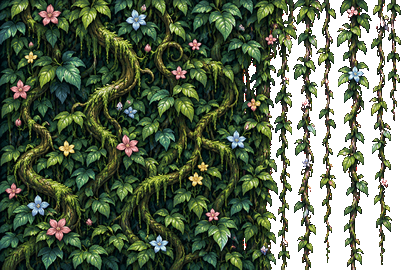
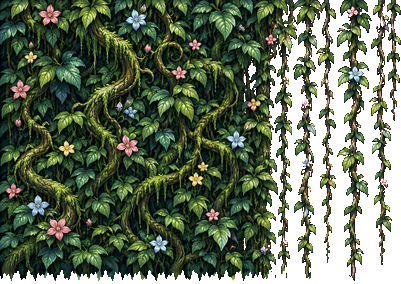
Act III vines: no more boxy edges as they come down
- The drape now slides down from above, so the vines' real ends lead; the
  curtain art gets a ragged leafy hem (14 rows below the picture, made by
  tools/vine_curtain.py) that sits off-screen once closed, so the leading
  edge is torn foliage instead of a straight cut.
- Strips are half as wide (4 art px) and their timing, swing phase and
  strength change smoothly across the curtain, so neighbours stay together
  and the hem comes down as one curve instead of a staircase.
- Each strip bends as 6 sheared pieces joined end to end instead of 18
  sideways-shifted blocks, so the swing is a smooth curve.
Release number bumped.

diff --git a/index.html b/index.html
@@ -14,9 +14,9 @@
 <canvas id="c" width="960" height="540"></canvas>
 <!-- animation frame data (generated by tools/animate.py); the game still runs if it's missing.
      ?v= is the release: bump it (here and BUILD below) whenever art or data changes, so browsers never mix an old cached file with a new page -->
-<script src="assets/anim/anims.js?v=20261113e"></script>
-<script src="assets/anim/looks.js?v=20261113e"></script>
-<script src="assets/bgfx/bgfx.js?v=20261113e"></script>
+<script src="assets/anim/anims.js?v=20261113f"></script>
+<script src="assets/anim/looks.js?v=20261113f"></script>
+<script src="assets/bgfx/bgfx.js?v=20261113f"></script>
 <!-- pixel fonts (OFL) stored as data; the game falls back to system fonts if it's missing -->
 <script src="assets/fonts/fonts.js"></script>
 <script>
@@ -50,7 +50,7 @@ let TIME = 0;
 //  Anything missing falls back to the original code-drawn graphics.
 // =====================================================================
 const PX = 2;  // world sprites are drawn at 2x
-const BUILD = '20261113e';   // the release (same as the ?v= on the data scripts above): bump both when art or data changes
+const BUILD = '20261113f';   // the release (same as the ?v= on the data scripts above): bump both when art or data changes
 const ART = {};
 // ability effect sprites (assets/vfx): three ChatGPT sheets cut by tools/pixelate.py vfx
 const VFX_SPR = ['star', 'fireball', 'flame', 'spark', 'meteor', 'sun', 'moon', 'feather', 'note', 'wave', 'plus', 'bubble',
@@ -5571,42 +5571,52 @@ function makeVineCurtain(side) {
   mg.translate(c.width, 0); mg.scale(-1, 1); mg.drawImage(c, 0, 0); return m;
 }
 const vsnap = v => Math.round(v / VPX) * VPX;   // onto the petals' pixel grid
-// the vine curtain (props/vine_curtain and its mirror), cut into thin strips that each hang from the top:
-//  · coming in: like drapes lowered from the top, each vine is anchored to the top edge and unrolls downward (gravity
-//    speeds it up), the screen's outer edges first and the middle last, so the hem comes down ragged; its loose tip flicks
-//    as it unrolls, it bobs once at full length, and a swing runs down it from the anchor (the tip moving most), fading
-//    out; neighbouring vines swing nearly in step, so the whole curtain ripples like one drape;
-//  · hold: they sway very gently;
+// the vine curtain (props/vine_curtain and its mirror), cut into narrow strips that each hang from the top of the screen:
+//  · coming in: lowered like drapes, the vines slide down from above (gravity speeds them up), the screen's outer edges
+//    first and the middle last; their real ends and the ragged leafy hem lead, so nothing looks cut off. Each vine bobs
+//    once at full length, its tip flicks on the way down, and a swing runs down it from the top (the loose bottom moving
+//    most), fading to a gentle sway. Timing, swing and phase change smoothly across the curtain, so neighbouring strips
+//    stay together and it ripples like one drape; each strip bends in a few sheared pieces, so the curve is smooth;
 //  · pulled apart: each side is drawn open from its inner edge like a stage curtain, the strands and inner strips setting off
 //    first and bunching over the wall, their bottoms trailing toward the middle, until the whole bunch slides off the side.
 // The left curtain's strands are drawn again over the right wall, so the two sides interweave.
-const VF = { strip: 8, band: 15, fall: 0.27, stagger: 0.2, landBy: 0.6, pull: 0.6, pullLag: 0.16, pullDur: 0.55 };
+const VINE_HEM = 14;   // tools/vine_curtain.py: ragged rows below the picture, off-screen when the curtain is closed
+const VF = { strip: 4, seg: 6, fall: 0.3, stagger: 0.2, landBy: 0.62, pull: 0.62, pullLag: 0.16, pullDur: 0.55 };
 function drawVineFall(I, vc, t) {
-  const S = H / vc.height, se = VINE_SOLID * S, lap = clamp(se - W / 2, 0, 24), x0 = W / 2 + lap - se;   // the left curtain's closed spot
+  const S = H / (vc.height - VINE_HEM), CH = vc.height * S, se = VINE_SOLID * S, lap = clamp(se - W / 2, 0, 24), x0 = W / 2 + lap - se;   // x0: the left curtain's closed spot
   const n = Math.ceil(vc.width / VF.strip), away = x0 + vc.width * S + 60;
-  if (!I.vstrip) I.vstrip = [0, 1].map(() => Array.from({ length: n }, (_, i) => ({ j: rand(-0.025, 0.025), ph: i * 0.22 + rand(-0.3, 0.3), a: rand(0.8, 1.2) })));   // phases drift slowly across: one rippling drape
+  const segs = Array.from({ length: VF.seg + 1 }, (_, i) => Math.round(i * vc.height / VF.seg));
+  if (!I.vstrip) I.vstrip = [0, 1].map(sd => Array.from({ length: n }, (_, i) => ({   // smooth across the curtain, so neighbours move together
+    j: 0.018 * Math.sin(i * 0.45 + sd * 2), ph: i * 0.11 + 0.5 * Math.sin(i * 0.3 + sd), a: 1 + 0.2 * Math.sin(i * 0.23 + sd * 3) })));
   const sm = ctx.imageSmoothingEnabled; ctx.imageSmoothingEnabled = false;
   const pass = (side, from) => {
     ctx.save(); if (side) { ctx.translate(W, 0); ctx.scale(-1, 1); }   // the right curtain is the left one mirrored
     for (let i = from; i < n; i++) {
-      const P = I.vstrip[side][i], sx = i * VF.strip, sw = Math.min(VF.strip + 2, vc.width - sx), X = x0 + sx * S;   // 2 px of overlap hides seams
+      const P = I.vstrip[side][i], sx = i * VF.strip, sw = Math.min(VF.strip + 1, vc.width - sx), X = x0 + sx * S;   // 1 px of overlap hides seams
       const mid = clamp(1 - Math.abs(X + VF.strip * S / 2 - W / 2) / (W / 2), 0, 1);   // 0 at the screen's edge, 1 in the middle
-      // coming in: unrolling down from the top edge
+      // coming in: sliding down from above
       const d = 0.03 + VF.stagger * mid + P.j, k = clamp((t - d) / VF.fall, 0, 1);
       if (k <= 0) continue;
       const tau = t - d - VF.fall;   // time since it reached full length
-      const len = k < 1 ? vc.height * k * k : vc.height - (7 / S) * P.a * Math.exp(-tau * 7) * Math.abs(Math.sin(tau * 16));   // gravity, then one bob
+      const top = k < 1 ? -CH * (1 - k * k) : -6 * P.a * Math.exp(-tau * 7) * Math.abs(Math.sin(tau * 16));   // gravity, then one bob
       const amp = k < 1 ? 5 + 8 * k : 11 * P.a * Math.exp(-tau * 2.6) + 1.2, wave = t * 11 + P.ph;   // the swing, fading to a gentle sway
-      let swing = 0;
+      let swing = 0, dx = 0;
       // pulled apart from the middle: the inner edge leads and bunches over the rest (so no gaps open), the outer strips go last
-      let dx = 0; const o = t - VF.pull - VF.pullLag * (1 - mid) - Math.abs(P.j) * 0.3;
-      if (o > 0) { const q = clamp(o / VF.pullDur, 0, 1); dx = -away * q * q * (3 - 2 * q); swing += 22 * P.a * Math.sin(Math.PI * Math.min(1, q * 1.4)); }
+      const o = t - VF.pull - VF.pullLag * (1 - mid) - Math.abs(P.j) * 0.3;
+      if (o > 0) { const q = clamp(o / VF.pullDur, 0, 1); dx = -away * q * q * (3 - 2 * q); swing = 22 * P.a * Math.sin(Math.PI * Math.min(1, q * 1.4)); }
       if (X + dx + sw * S < -40) continue;   // gone off the side
-      for (let ry = 0; ry < len; ry += VF.band) {   // bands down the vine, as far as it has unrolled
-        const bh = Math.min(VF.band, len - ry); if (bh < 0.5) break;
-        const f = (ry + bh / 2) / vc.height, tip = k < 1 ? clamp(1 - (len - ry) / 30, 0, 1) : 0;   // f: 0 at the anchor, 1 at the bottom
-        const off = amp * f * f * Math.sin(wave - f * 3.2) + swing * f * f + tip * 6 * Math.sin(t * 30 + P.ph + ry * 0.2);   // a wave running down it; the unrolling tip flicks
-        ctx.drawImage(vc, sx, ry, sw, bh, csnap(X + dx + off), csnap(ry * S), sw * S, bh * S + 1);
+      const bottom = top + CH;
+      const offAt = y => {   // sideways bend at screen height y: a wave running down from the top; the falling tip flicks
+        const f = clamp(y / H, 0, 1.1);
+        return amp * f * f * Math.sin(wave - f * 3.2) + swing * f * f + (k < 1 ? 6 * Math.max(0, 1 - (bottom - y) / 70) * Math.sin(t * 30 + P.ph + y * 0.05) : 0);
+      };
+      for (let g = 0; g < VF.seg; g++) {   // a few sheared pieces, joined end to end, so the bend is a smooth curve
+        const r0 = segs[g], r1 = segs[g + 1], y0 = top + r0 * S, y1 = top + r1 * S;
+        if (y1 < 0 || y0 > H) continue;
+        const o0 = offAt(y0), c = (offAt(y1) - o0) / (y1 - y0);
+        ctx.save(); ctx.transform(1, 0, c, 1, -c * y0, 0);   // shear about the piece's top
+        ctx.drawImage(vc, sx, r0, sw, r1 - r0, X + dx + o0, y0, sw * S, (r1 - r0) * S + 1);
+        ctx.restore();
       }
     }
     ctx.restore();

diff --git a/tools/vine_curtain.py b/tools/vine_curtain.py
@@ -17,6 +17,7 @@ from bglayers import keyed   # magenta key with despill
 SRC = os.path.join(ROOT, 'assets_raw', 'bg_layers', 'raw', 'vine_curtain.png')
 OUT = os.path.join(ROOT, 'assets', 'props', 'vine_curtain.png')
 HEIGHT = 270
+HEM = 14   # the game's VINE_HEM
 
 
 def main():
@@ -40,8 +41,17 @@ def main():
     for x in range(solid):
         for y in range(HEIGHT):
             if px[x, y][3] == 0: px[x, y] = (16, 40, 20, 255)
-    small.save(OUT)
-    print('vine curtain', small.size, 'SOLID', solid)
+    # a ragged leafy hem below the picture (HEM rows: the bottom rows mirrored, then torn off unevenly), so the drape's
+    # leading edge isn't a straight line while it comes down; when closed it sits below the screen
+    import math
+    out = Image.new('RGBA', (w, HEIGHT + HEM)); out.alpha_composite(small, (0, 0)); op = out.load()
+    for r in range(HEM):
+        for x in range(w): op[x, HEIGHT + r] = px[x, HEIGHT - 1 - r]
+    for x in range(w):
+        cut = HEIGHT + int(round(3 + 4 * abs(math.sin(x * 0.21)) + 3 * math.sin(x * 0.57 + 1.3) + 2 * math.sin(x * 1.3)))
+        for y in range(max(HEIGHT, cut), HEIGHT + HEM): op[x, y] = (0, 0, 0, 0)
+    out.save(OUT)
+    print('vine curtain', out.size, 'SOLID', solid, 'HEM', HEM)
 
 
 if __name__ == '__main__':

diff --git a/CLAUDE.md b/CLAUDE.md
@@ -137,7 +137,7 @@ background tabs throttle animation frames).
 - **Releases / browser cache:** `BUILD` (top of the game script) and the `?v=` on the anims.js / looks.js script tags must match; bump both whenever art or data files change. GitHub Pages lets browsers cache files for ~10 minutes, and without the bump a new page can run with an old cached anims.js (e.g. no outfits).
 - **Depth backgrounds:** `BG_LAYERED` lists backgrounds with `assets/bg/<key>_far|_mid|_near.png` (480x270; far complete, mid/near transparent around their pieces); `drawParallax` draws them at `BG_DEPTH[key]` (default 0.35 / 0.65 / 1 of the old backdrop's travel), lined up like the original at the middle of the level and at the bottom. Made by `tools/bglayers.py <key> --preview` from three ChatGPT edits in `assets_raw/bg_layers/raw/` (far = complete inpaint, mid/near on flat magenta, or green for purple/red art: `GREEN_KEY`); it despills the key into soft alpha, has `HAZE` (fog colour on a mid layer) and `MIST` (soft see-through mist on a near layer), and the preview shows the stack and both level ends to check the cut. The Sanctuary Yard is its own thing (`drawYardDepth`, speeds in `YARD`): `bg/yard_far` (castle, mountains and sky, a full picture at 2.2x) plus two seamless strips that slide with the camera, `bg/yard_fields` (green fields) and `bg/yard_fence` (cut post-to-post), both standing on the ground line; `drawFrontGrass` draws the seamless `bg/yard_grass` at 2x in front of everything. All made by `tools/bglayers.py --yard` from raw/yard2_far, yard_fields, yard_fence, yard_grass (the strips cross-fade their ends so they tile with no seam). Keep pieces that touch (banners on a wall, a tent on its floor, reflections and the water) in the same layer, or give the middle layer a depth near the far one.
 - **Wild animal roaming:** `roamWalker` / `roamFlyer` (above updateWild). A walker's `span` (`wildSpan`: the floor it stands on, stopping at ledges, walls and hazards, clamped to a 16-tile stretch round its home, `WILD_RANGE`) is recomputed whenever it lands off it; it picks a `goal` in the span, eases its speed (no snapping), slows on arrival, rests (`pause`, glancing about), repeats. `curiosity()` has hysteresis (notice at 190 px, lose interest past 280) and a curious walker follows you only inside its span, stopping to watch you. `wildBlocked` is the safety net at ledges/hazards/walls. Flyers glide between random waypoints round home.
-- **Act III battle wipe:** `assets/props/vine_curtain.png` is ChatGPT's left curtain (a solid vine wall breaking into hanging strands, on magenta) made by `tools/vine_curtain.py` from `assets_raw/bg_layers/raw/vine_curtain.png`: keyed, 270 px tall (drawn at 2x, no smoothing). The tool prints SOLID, the column where the wall ends: keep `VINE_SOLID` in index.html equal to it (the wall must be at least half the screen wide). `drawVineFall` cuts it and its mirror into 8 px strips drawn in bands: they unroll down from the top edge like lowered drapes (outer edges first, gravity, one bob at full length, a fading swing wave running down from the anchor; neighbouring strips nearly in phase), sway while closed, then are pulled open from the inner edge (strands lead and bunch over the wall, bottoms trailing; timings in `VF`); the left strands are drawn again over the right wall so the sides interweave; the old drawn curtain (makeVineCurtain) is the fallback.
+- **Act III battle wipe:** `assets/props/vine_curtain.png` is ChatGPT's left curtain (a solid vine wall breaking into hanging strands, on magenta) made by `tools/vine_curtain.py` from `assets_raw/bg_layers/raw/vine_curtain.png`: keyed, 270 px tall (drawn at 2x, no smoothing). The tool prints SOLID, the column where the wall ends: keep `VINE_SOLID` in index.html equal to it (the wall must be at least half the screen wide). The art has a ragged hem of `VINE_HEM` rows below the picture (off-screen when closed). `drawVineFall` cuts it and its mirror into 4 px strips, each drawn as `VF.seg` sheared pieces joined end to end (a smooth bend, no steps): they slide down from above like lowered drapes (outer edges first, gravity, one bob, a fading swing wave running down from the top; timing/phase/amplitude vary smoothly across strips so neighbours stay together), sway while closed, then are pulled open from the inner edge (strands lead and bunch over the wall, bottoms trailing; timings in `VF`); the left strands are drawn again over the right wall so the sides interweave; the old drawn curtain (makeVineCurtain) is the fallback.
 - **Status icons:** `assets/ui/st_<status>.png` (40x40, drawn at 20) are sliced by `tools/status_icons.py` from ChatGPT's 4x4 sheet `assets_raw/bg_layers/raw/status_icons.png` (STATUS order; only magenta joined to the edge is keyed, so purple art survives). In battle `stIcons(u)` lays them out above the HP bar, 4 per row stacking up (the name moves above them); `stCount` is the corner number (turns, Shield points, Evade dodges); `stInfo(u, k)` writes the full rules with real numbers (uses `dotTick`, shared with tickSide); hover shows it, a click pins it (`B.stPin`), any other click lets go. A new STATUS needs an icon, an `ART_FILES.ui` entry and an stInfo case.
 - **Moving backgrounds:** `assets/bgfx/bgfx.js` (`window.BGFX`, per area) is generated by `tools/bgfx.py --all` from the `FX` table there and ChatGPT strips `assets_raw/bg_layers/raw/fx_<name>.png` (N frames in equal cells on magenta/green; `STRIPS` says frames, height in background pixels, `body` = use the middle as a texture, `row` = one row of a grid sheet, `loop` = seamless scroll strip). Kinds: `flow` (texture tiled inside the art's own pixels via a precomputed mask from a colour `RULES` entry in a rect: lava, water, moon, runes), `sprite` (frames at a spot; `cut` erases the still art from that layer, e.g. the banners), `drift` (particles wrapping in an area), `scroll` (seamless fog), `glow`, `ripple` (rows y0..y1 of the layer itself redrawn with a moving sideways wave: the lake surface), `sway` (pixels matching a rule in a rect lifted out of the layer into `bgfx/sway_<area>_<k>` and swung, still at the top; gaps in solid layers filled from around them). Layers that bgfx.py edits (cuts, sways) keep untouched copies in `assets_raw/bg_layers/pristine/` and every `--all` starts from those, so if you rebuild a layer with tools/bglayers.py, delete its pristine copy first. `fogband` is the fog strip faded at the bottom too, for mist floating mid-scene (Thornwood, in front of all layers). `drawBgFx(area, layer, tf)` draws them right after each layer in drawParallax (L 3 = in front of all three), in drawYardDepth and in drawBattle (battles now draw the three layers). Re-running tools/bglayers.py restores cut banners, so run bgfx.py --all after it.
 - **Giving animals up:** `GIVE` state on the Sanctuary team board (Your Pets, `G.panel === 'team'` only, `canGive()`): `giveLock` (team / Den pair), `donateXp` (12 + 25% of the XP it took to raise it), `giveDo` removes from `HERD`, shares Donate XP across the team, saves, respawns the Yard pets; `drawGiveConfirm` (a second step for shinies).
